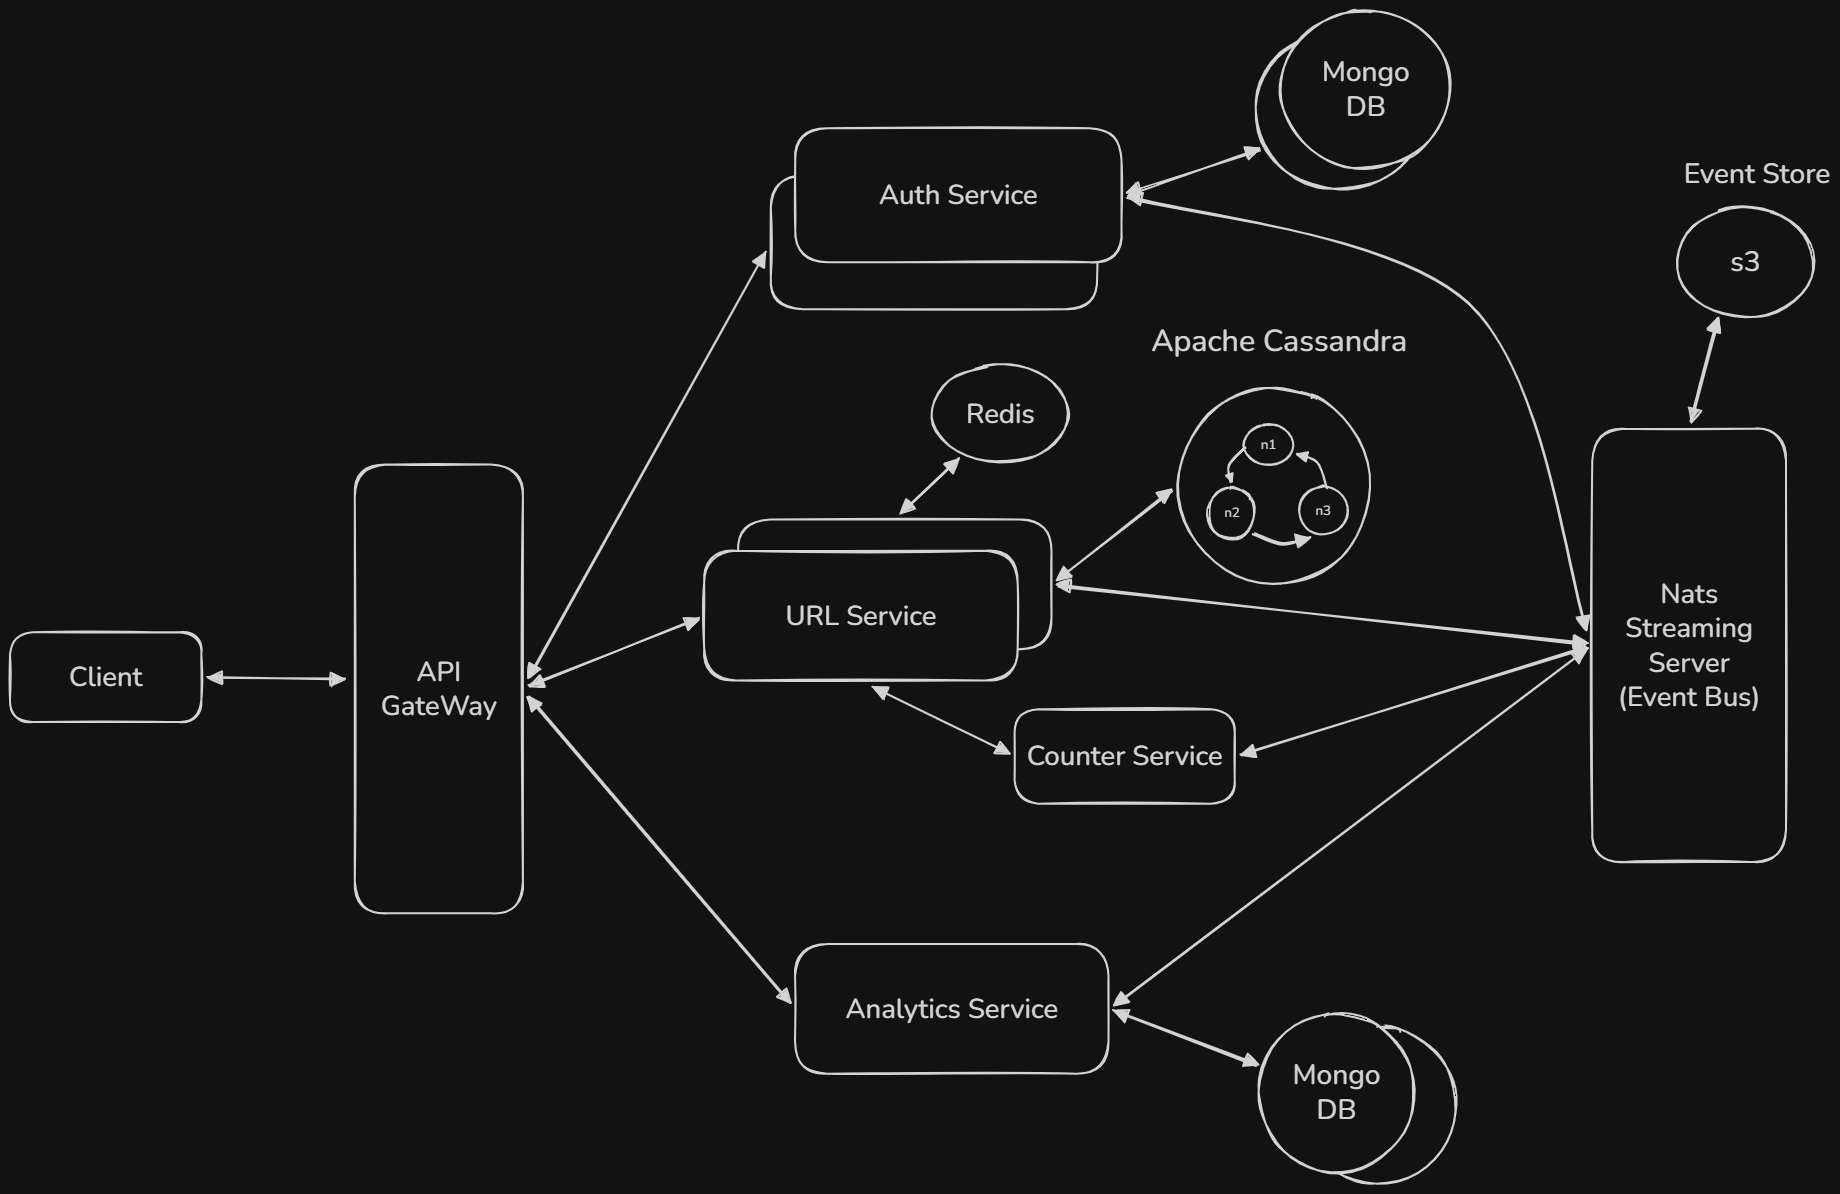
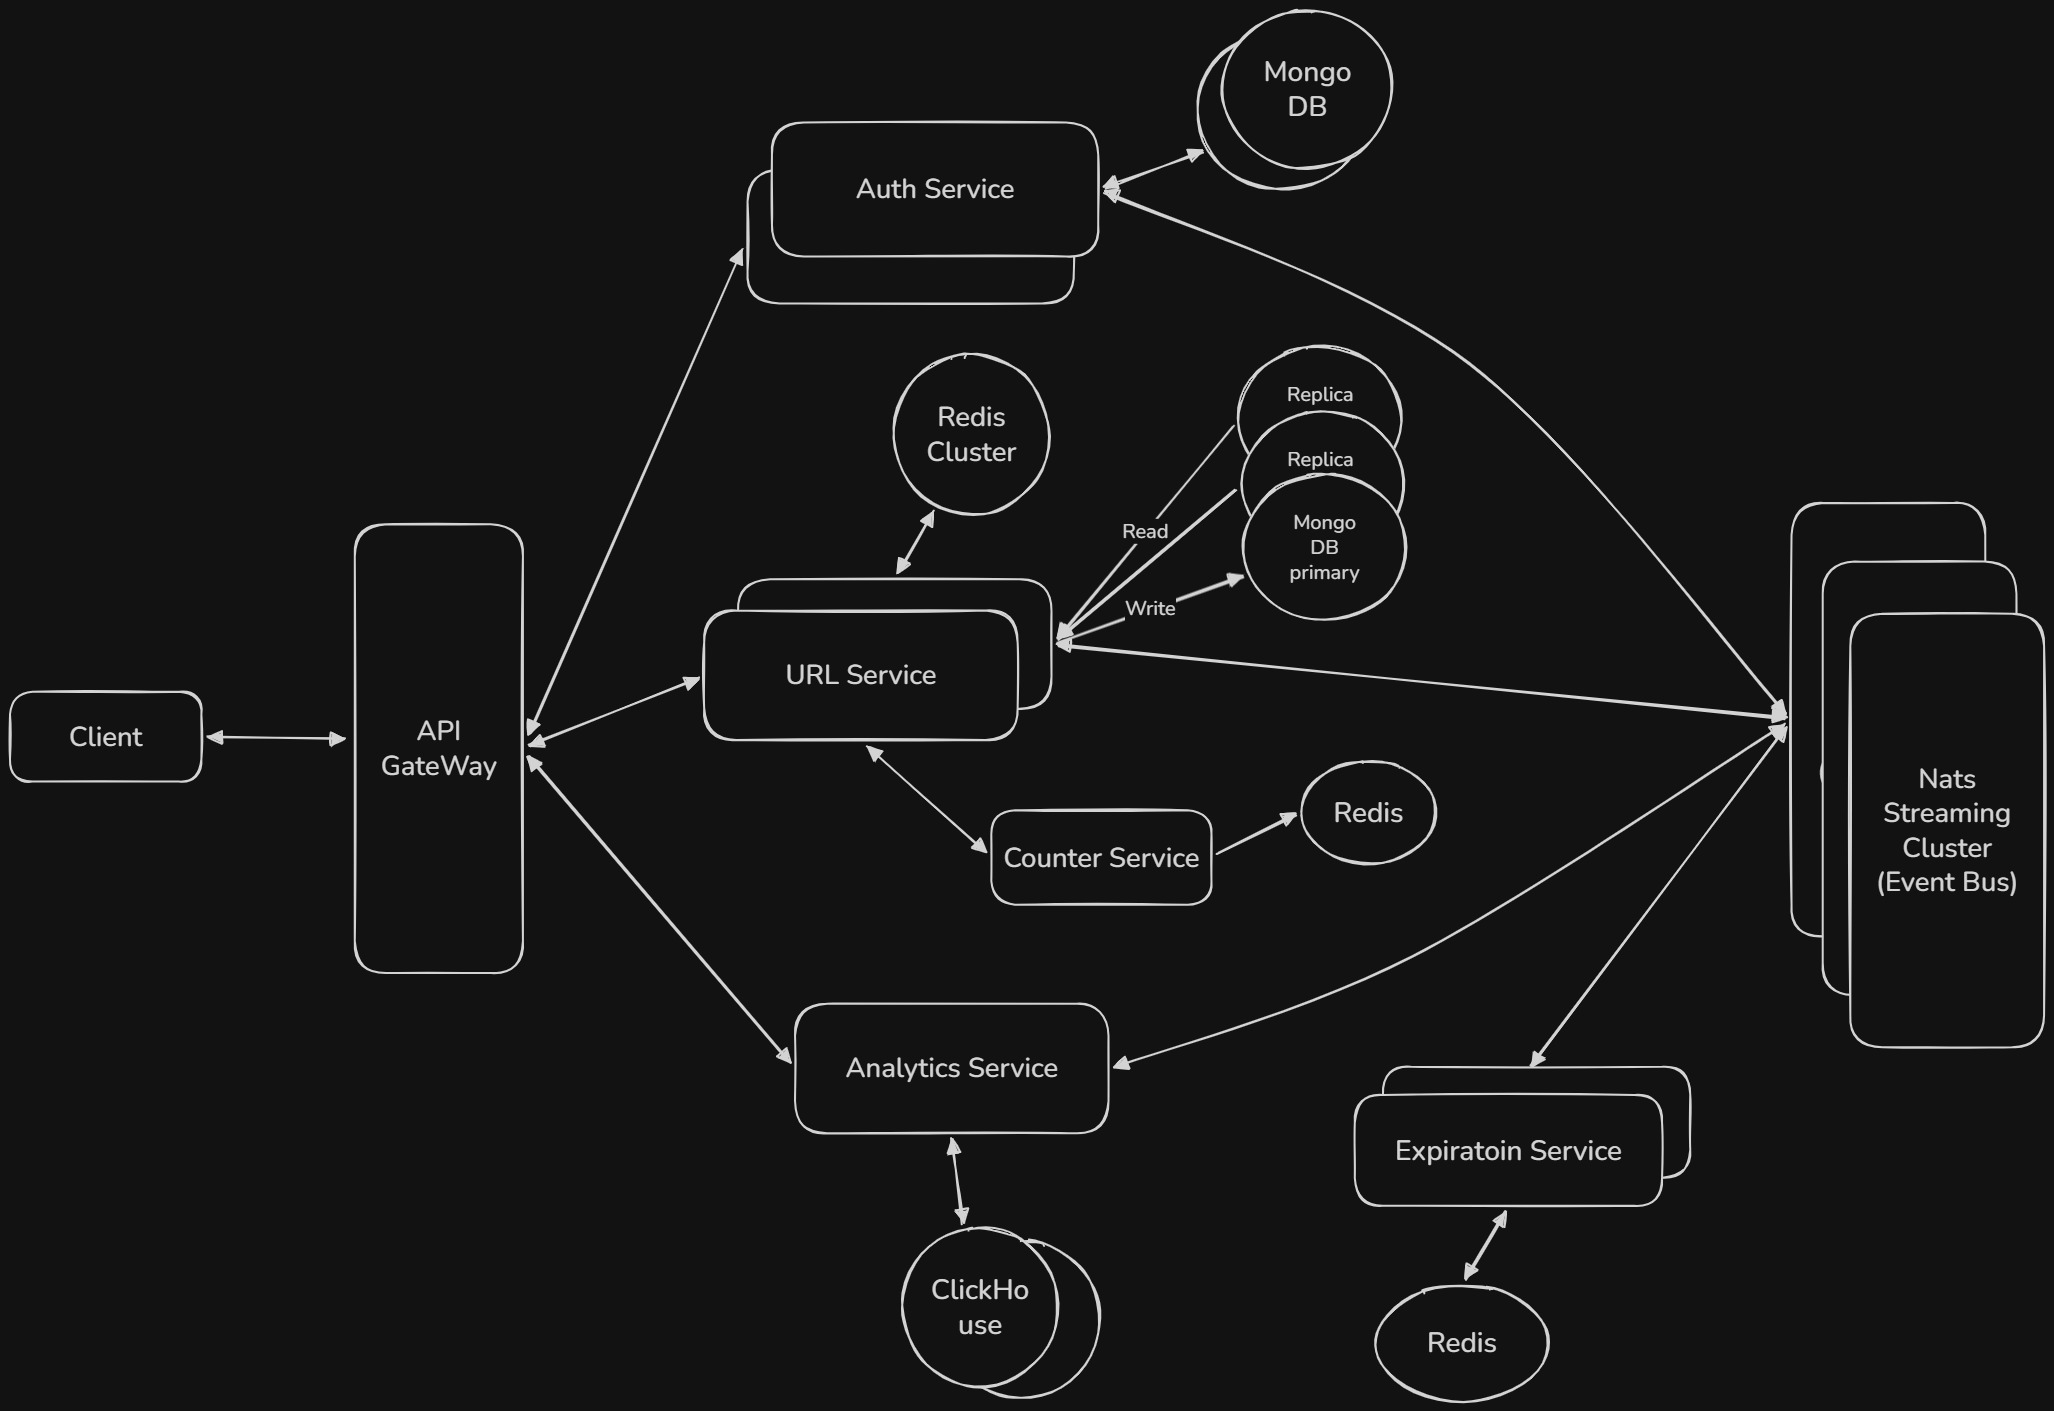
Doc Updates

diff --git a/docs/analytics-service.md b/docs/analytics-service.md
@@ -1,182 +1,49 @@
-# URL Shortener Architecture
+# 📊 Analytics Service
 
-## Architecture Design
-
-![Architecture Diagram](./Images/architecture.png)
+The Analytics Service is a high-throughput, event-driven microservice responsible for tracking, processing, and aggregating every interaction with a short URL. It leverages **ClickHouse** to provide real-time insights with sub-second query latency.
 
 ---
 
-## Overview
-This system is designed as a microservices-based URL shortener with scalability, fault tolerance, and asynchronous processing in mind. It uses an API Gateway, multiple services, distributed storage, caching, and an event-driven architecture.
+## 🛠 Core Responsibilities
+
+- **Event Ingestion:** Listens to the `url:clicked` and `url:deleted` subjects on the **NATS Streaming** bus.
+- **Metadata Synchronization:** Maintains a mirrored state of URL metadata (Short URL, Long URL, UserID) within ClickHouse to allow for "stitched" API responses.
+- **Data Transformation:** Normalizes high-resolution browser timestamps into ClickHouse-compatible formats (removing 'T' and 'Z' markers).
+- **Real-Time Aggregation:** Orchestrates the flow of raw click events into pre-aggregated summary tables via Materialized Views.
 
 ---
 
-## High-Level Flow
+## 🗄 ClickHouse Architecture (High Availability)
 
-1. Client sends request to API Gateway  
-2. API Gateway routes request to appropriate service  
-3. Services communicate with databases and event bus  
-4. Asynchronous processing handled via event streaming  
-5. Cached responses served for high performance  
+The storage layer is designed as a distributed cluster to ensure zero data loss and horizontal scalability.
 
----
-
-## Components
-
-### 1. API Gateway
-- Single entry point for all requests
-- Routes traffic to:
-  - Auth Service
-  - URL Service
-  - Analytics Service
-- Handles request validation and routing
+- **Cluster Configuration:** `url_analytics_cluster`
+- **Topology:** 2 Shards × 2 Replicas = **4 Dedicated Nodes** (`clickhouse-0` through `clickhouse-3`).
+- **Engine:** Uses the `ReplicatedMergeTree` family with **Zookeeper** for coordination.
 
 ---
 
-### 2. Auth Service
-- Manages user authentication and authorization
-- Stores user data in MongoDB
-- Publishes `UserCreated` events to event bus
+## 🔄 The Data Pipeline (The "Bridge")
+
+We implement an **OLAP (Online Analytical Processing)** pattern to separate raw logs from display-ready stats.
+
+1. **Raw Table (`link_clicks`):** A distributed table that stores every individual click (IP, User Agent, Timestamp).
+2. **The Worker (`link_clicks_mv`):** A Materialized View that acts as an internal trigger. It "watches" the raw table and automatically calculates daily totals.
+3. **Summary Table (`daily_stats`):** A `SummingMergeTree` table that stores the final counts. The frontend queries this table for the Management Dashboard, ensuring the UI stays fast even with millions of clicks.
 
 ---
 
-### 3. URL Service
-- Core service of the system
-- Responsibilities:
-  - Generate short URLs
-  - Handle redirection
+## 🛡 Error Handling & Consistency
 
-#### Short URL Generation Strategy
-- Does **not** generate IDs independently to avoid collisions
-- Requests a **batch (range)** of IDs (e.g., 1000–2000) from Counter Service
-- Uses a **bijective function (e.g., Base62 encoding)** on the counter value to generate short URLs
-- Each instance works on its assigned range → ensures:
-  - No collisions
-  - No coordination between instances
-  - High throughput
-
-#### Storage
-- Cassandra → primary DB (URL mappings)
-- Redis → cache for hot URLs
-
-#### Events
-- Publishes:
-  - `URLCreated`
-  - `URLAccessed`
+- **Strict Typing:** The service automatically handles ISO-8601 string conversions to prevent ClickHouse insertion failures (`CANNOT_PARSE_INPUT_ASSERTION_FAILED`).
+- **Idempotency:** Uses a `version` column (based on `Date.now()`) in the `url_metadata` table. Combined with `ReplacingMergeTree`, this ensures the latest state (like a 'deleted' status) always wins during background merges.
+- **Graceful Degradation:** If ClickHouse is temporarily unreachable, the service stays alive and allows NATS to retry message delivery, ensuring no click data is ever dropped.
 
 ---
 
-### 4. Counter Service
-- Responsible for **unique ID generation**
-- Allocates **ID ranges (batches)** to URL Service instances
-  - Example: Instance A → 1–1000, Instance B → 1001–2000
-- Ensures:
-  - No overlap between instances
-  - Distributed ID generation
-- Can use atomic counters or sequence management internally
-- Reduces contention and avoids central bottleneck
+## 📡 API Endpoints
 
----
-
-### 5. Analytics Service
-- Processes user behavior and click analytics
-- Consumes events from event bus
-- Stores aggregated data in MongoDB
-
----
-
-### 6. Event Bus (NATS Streaming)
-- Enables asynchronous communication
-- Decouples services
-- Handles:
-  - URL events
-  - User events
-  - Click events
-
----
-
-### 7. Event Store (S3)
-- Stores event logs for replay and debugging
-- Helps in rebuilding state if needed
-
----
-
-### 8. Databases
-
-#### Cassandra
-- Used by URL Service
-- Distributed, highly scalable
-- Stores URL mappings
-
-#### MongoDB
-- Used by:
-  - Auth Service
-  - Analytics Service
-- Stores user and analytics data
-
-#### Redis
-- Used by URL Service
-- Caches frequently accessed URLs
-- Reduces database load
-
----
-
-## Request Flows
-
-### 1. Create Short URL
-1. Client → API Gateway  
-2. API Gateway → Auth Service (validate user)  
-3. API Gateway → URL Service  
-4. URL Service:
-   - Requests ID batch from Counter Service (if not available)
-   - Picks next ID from its range
-   - Converts ID → short URL using bijective function (Base62)
-   - Stores mapping in Cassandra
-   - Caches in Redis
-   - Publishes `URLCreated` event  
-5. Event consumed by Analytics & Counter services  
-
----
-
-### 2. Redirect Short URL
-1. Client → API Gateway  
-2. API Gateway → URL Service  
-3. URL Service:
-   - Checks Redis cache  
-   - If miss → fetch from Cassandra  
-   - Returns original URL  
-   - Publishes `URLAccessed` event  
-4. Counter & Analytics updated asynchronously  
-
----
-
-### 3. Analytics Processing
-1. Events received from event bus  
-2. Analytics Service processes data  
-3. Stores results in MongoDB  
-
----
-
-## Key Design Decisions
-
-- **Batch ID Allocation** → reduces contention and improves scalability  
-- **Bijective Encoding (Base62)** → compact, unique, collision-free short URLs  
-- **Microservices Architecture** → independent scaling  
-- **Event-Driven System** → loose coupling, async processing  
-- **Cassandra** → high write throughput  
-- **Redis Cache** → low latency reads  
-- **NATS Streaming** → reliable event delivery  
-- **S3 Event Store** → durability and replay capability  
-
----
-
-## Benefits
-
-- No ID collisions
-- Horizontally scalable URL generation
-- Low latency redirects
-- Reduced database load via caching
-- Fully asynchronous analytics pipeline
-- Fault-tolerant and extensible system
-
----
+| Endpoint | Method | Description |
+| :--- | :--- | :--- |
+| `/api/analytics/counts` | `GET` | Returns aggregated click counts for all links owned by the user. |
+| `/api/analytics/stats/:code` | `GET` | Returns detailed time-series data for a specific short link. |

diff --git a/README.md b/README.md
@@ -1,37 +1,41 @@
-# Project Documentation
+# ZeroOp URL Shortener 🚀
+**A high-performance, distributed, and event-driven URL shortening platform.**
 
-Welcome to the URL Shortener project documentation. Below are the detailed docs for each part of the system:
+This project is built to handle massive scale using a microservices architecture, featuring real-time analytics, automated link expiration, and high-availability database clustering.
 
-- [Overall Architecture](docs/architecture.md)
-- [Auth Service](docs/auth-service.md)
-- [URL Service](docs/url-service.md)
-- [Analytics Service](docs/analytics-service.md)
-- [Counter Service](docs/counter-service.md)
-- [Database Schema](docs/database.md)
-- [Caching Strategy](docs/caching.md)
+---
 
-when you run the setup for the first time need to setup the replica sets
+## 🏗 System Architecture
+The system is composed of several independent services communicating over an asynchronous event bus (NATS).
 
-kubectl exec -it mongo-0 -- mongosh --eval "rs.initiate({_id:'rs0',members:[{_id:0,host:'<IP_OF_MONGO_0>:27017'},{_id:1,host:'<IP_OF_MONGO_1>:27017'},{_id:2,host:'<IP_OF_MONGO_2>:27017'}]})"
+![System Architecture](./images/image_d43558.png)
 
-$ips = (kubectl get pods -l app=redis-cluster -o jsonpath='{range .items[*]}{.status.podIP}:6379 {end}').Split(' ', [System.StringSplitOptions]::RemoveEmptyEntries); kubectl exec -it redis-cluster-0 -- redis-cli --cluster create $ips --cluster-replicas 1 --cluster-yes
+---
 
-The Solution: Create the Materialized View
-You need to create a "trigger" that watches link_clicks and automatically updates daily_stats. Run this command in your PowerShell to apply it to clickhouse-0:
+## 📂 Documentation Modules
+Click on the links below to dive into the technical details of each component:
 
-PowerShell
+| Service / Module | Description | Link |
+| :--- | :--- | :--- |
+| **Architecture** | High-level design, data flow, and trade-offs. | [Read Docs](./architecture.md) |
+| **Auth Service** | Identity management and JWT-based security. | [Read Docs](./auth-service.md) |
+| **URL Service** | The core redirection engine and link management. | [Read Docs](./url-service.md) |
+| **Counter Service** | Distributed ID generation for short codes. | [Read Docs](./counter-service.md) |
+| **Analytics Service** | ClickHouse-powered real-time tracking and MVs. | [Read Docs](./analytics-service.md) |
+| **Expiration Service** | TTL management and automated link cleanup. | [Read Docs](./expiration.md) |
+| **Database Layer** | MongoDB & ClickHouse cluster configurations. | [Read Docs](./database.md) |
 
-kubectl exec -it clickhouse-0 -- clickhouse-client --query "CREATE MATERIALIZED VIEW IF NOT EXISTS analytics.link_clicks_mv TO analytics.daily_stats AS SELECT shortUrl, toDate(timestamp) AS date, count() AS total_clicks FROM analytics.link_clicks GROUP BY shortUrl, date"
+---
 
-Why this fixes it:
-Automatic Updates: Every time your analytics-service inserts a new row into link_clicks, this view will immediately increment the total_clicks in daily_stats.
+## 🚀 Quick Start (Local Development)
+1. **Prerequisites:** Docker, Kubernetes (minikube/kind), and Helm.
+2. **Setup Cluster:** `kubectl apply -f ./k8s`
+3. **Initialize Databases:** See the [Database Docs](./database.md) for ClickHouse migrations.
 
-Date-Based Sharding: It converts your high-precision timestamp into a simple date so your daily counts stay organized.
+---
 
-Matches your Query: Since your getAllLinkCounts API joins with daily_stats, it will finally see the numbers it’s looking for.
-
-One Important Note (Historical Data)
-Materialized Views in ClickHouse only process new data inserted after the view is created. Since you already have 7 clicks in there, they won't automatically show up in daily_stats.
-
-To move those existing 7 clicks over right now, run this:
-
+## 🛠 Technology Stack
+- **Languages:** TypeScript (Node.js), Angular (Frontend).
+- **Communication:** NATS Streaming (Event Bus), gRPC/REST.
+- **Databases:** MongoDB (Metadata), Redis (Cache), ClickHouse (Analytics).
+- **Orchestration:** Kubernetes, Docker, Ingress-Nginx.
